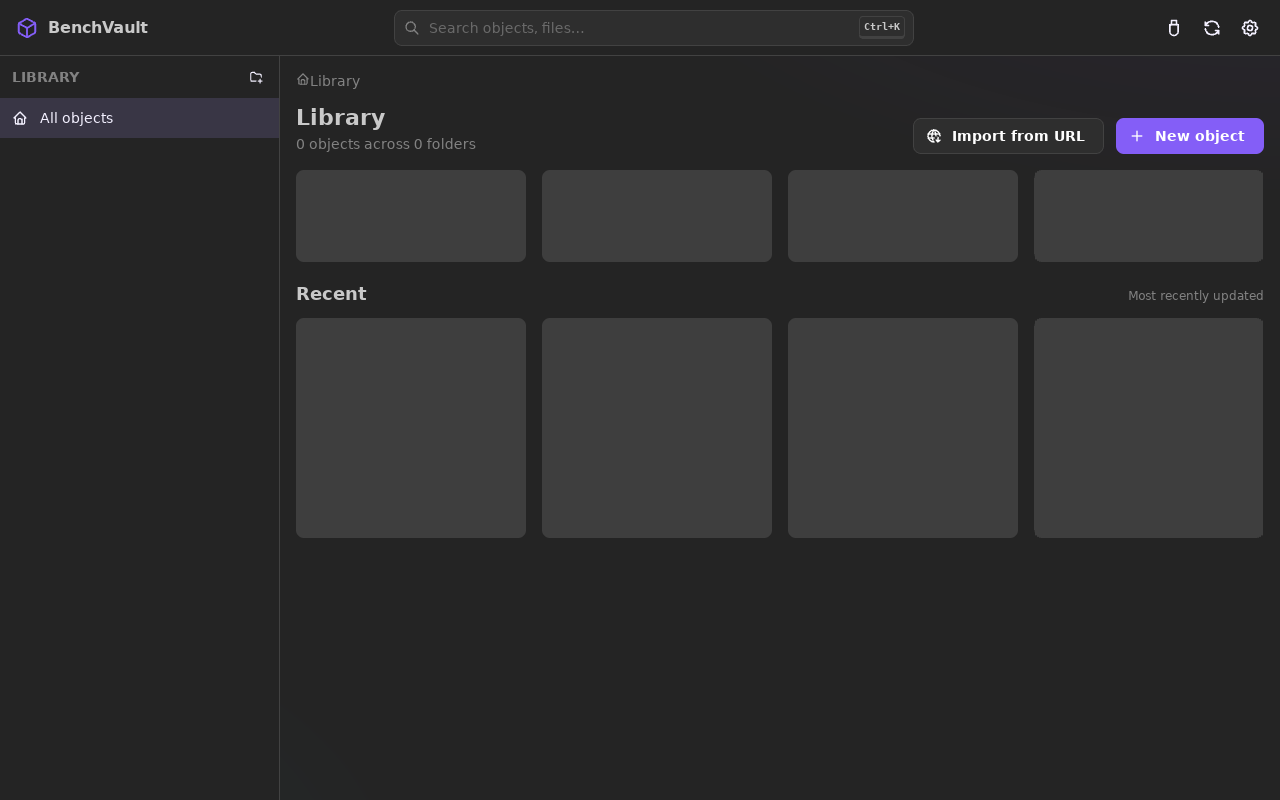
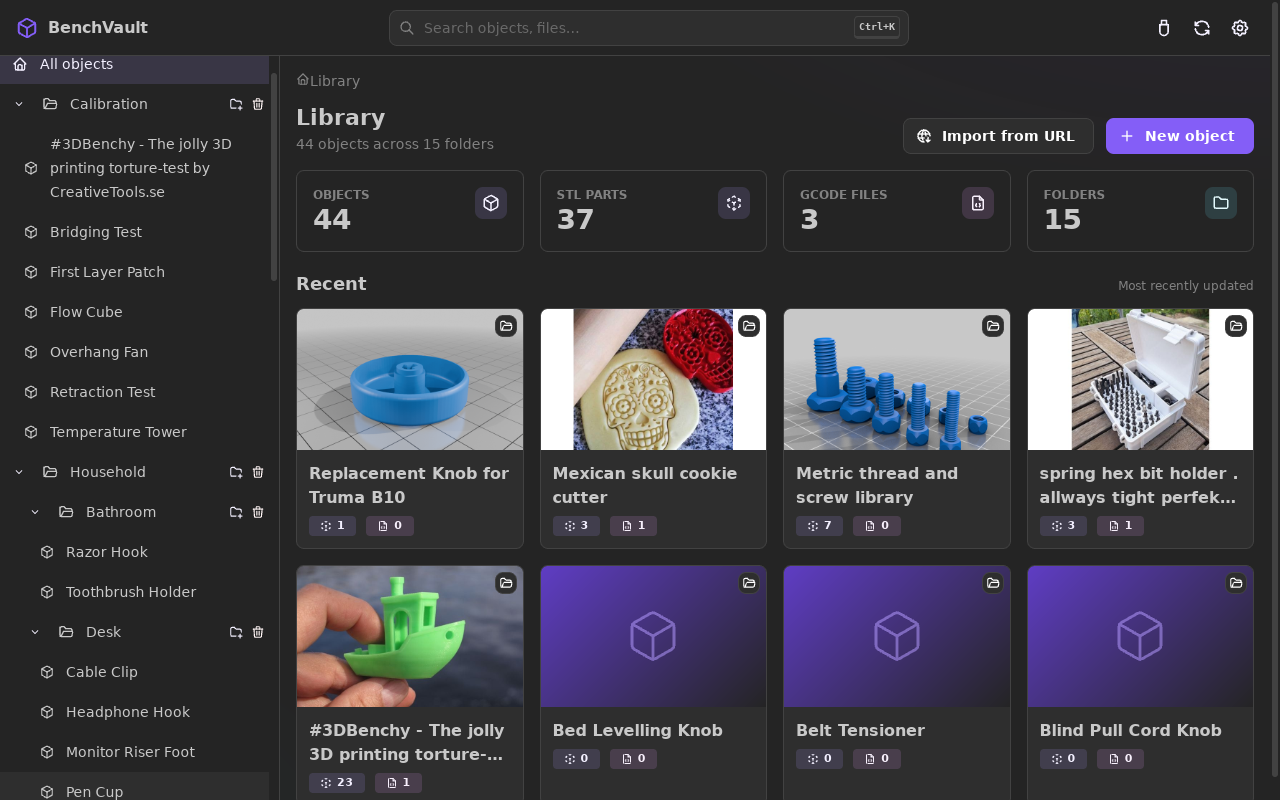
Expand the folder tree and pick a lighter STL for the screenshots

diff --git a/demo/docker/shots.py b/demo/docker/shots.py
@@ -27,12 +27,35 @@ try:
     drv.set_window_size(1280, 800)
 
     # Wait on seeded content rather than sleeping — proves the DB was read.
-    wait.until(text_present("Cable Clip"))
+    wait.until(text_present("3DBenchy"))
+    wait.until_not(text_present("0 objects across 0 folders"))
+
+    # Open every folder in the sidebar so the shot shows the nesting, not five
+    # collapsed roots. Each pass reveals the next level down.
+    for _ in range(4):
+        chevrons = drv.find_elements(By.CSS_SELECTOR, "[aria-label='Expand']")
+        if not chevrons:
+            break
+        for c in chevrons:
+            try:
+                c.click()
+            except Exception:
+                pass  # a re-render can detach the node mid-loop; next pass gets it
+        time.sleep(0.3)
+
+    # Expanding scrolls the tree; put it back at the top so the roots are in frame.
+    home = drv.find_element(By.XPATH, "//*[contains(text(),'All objects')]")
+    drv.execute_script("arguments[0].scrollIntoView({block: 'start'})", home)
+
+    time.sleep(1.5)  # let the card thumbnails settle
     shot("01-library")
 
-    drv.find_element(By.XPATH, "//*[contains(text(),'XYZ Calibration Cube')]").click()
-    wait.until(text_present("Calibration"))
-    time.sleep(2.5)  # let the WebGL STL preview finish its first frames
+    # Deliberately not the Benchy: its ~11MB STL comes back truncated over the
+    # number[] IPC, and because the file's binary header starts with "solid"
+    # STLLoader then falls back to its ASCII parser and yields garbage geometry.
+    drv.find_element(By.XPATH, "//*[contains(text(),'Mexican skull')]").click()
+    wait.until(text_present("Kitchen"))
+    time.sleep(6)  # llvmpipe needs a moment for the first WebGL frames
     shot("02-object-detail")
 
     print("OK")
